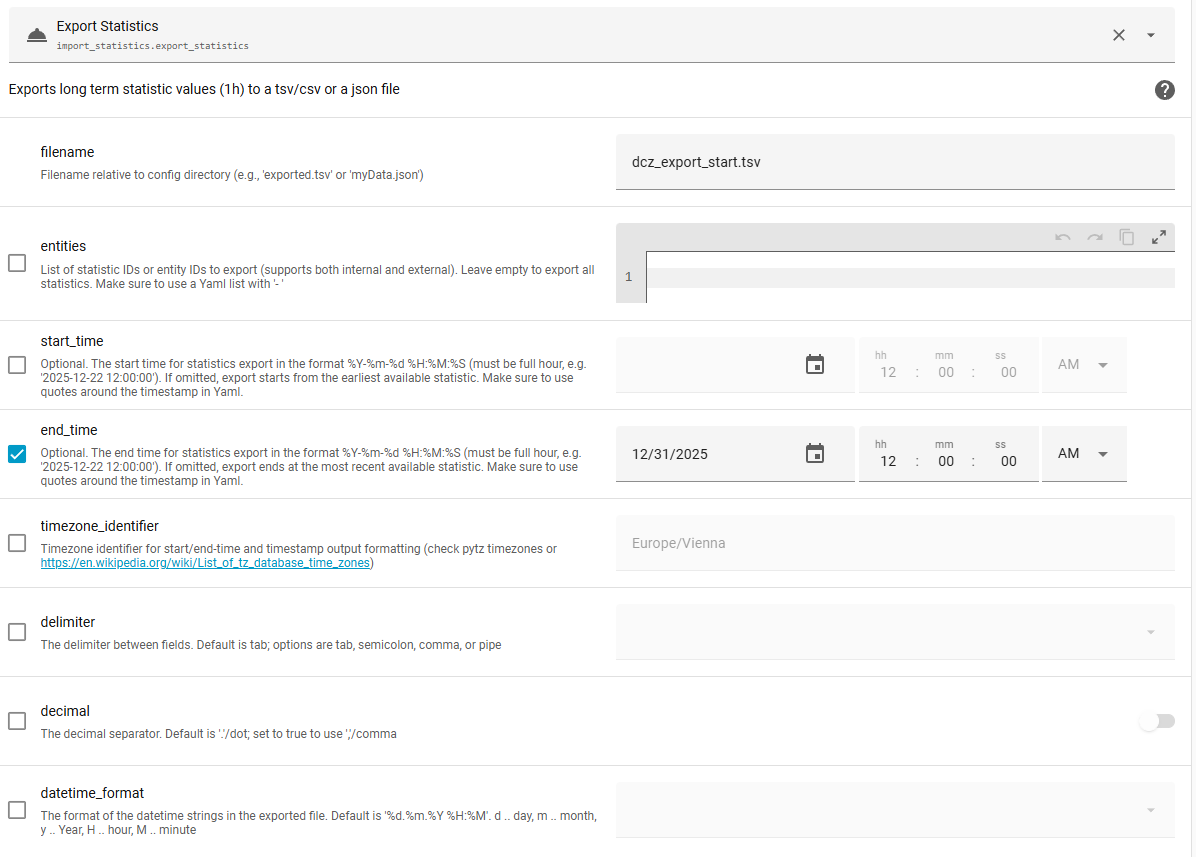
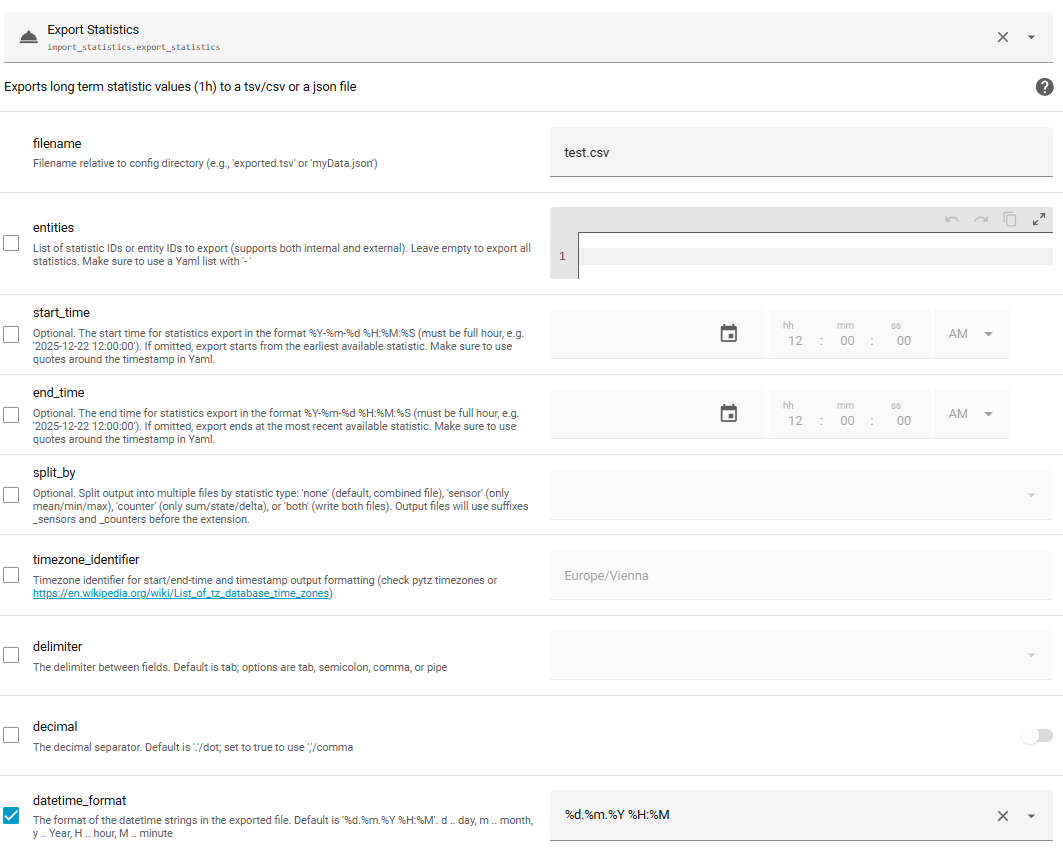
Add export performance notes and update architecture documentation
- Document export performance characteristics in README (45s for 450k records on RPi)
- Update service_export_ui.png screenshot
- Enhance ARCHITECTURE.md with detailed export service documentation:
  - Add split_by functionality for separating sensors/counters
  - Document auto-detection of time ranges from database
  - Add export_database_access.py module details
  - Include performance characteristics section
  - Update sequence

diff --git a/docs/DrCoolzic/ARCHITECTURE.md b/docs/DrCoolzic/ARCHITECTURE.md
@@ -108,22 +108,26 @@ hass.services.register(DOMAIN, "import_from_file", handle_import_from_file)
 **Role**: Main export service orchestration
 
 **Key Functions:**
-- [`handle_export_statistics_impl(hass, call)`](custom_components/import_statistics/export_service.py:52): Export service entry point
-- [`get_statistics_from_recorder()`](custom_components/import_statistics/export_service.py:27): Database querying
+- [`handle_export_statistics_impl(hass, call)`](custom_components/import_statistics/export_service.py:173): Export service entry point
+- [`get_statistics_from_recorder()`](custom_components/import_statistics/export_service.py:36): Database querying with optional parameters
 
 **Architecture Pattern:**
 1. **Parameter Validation**: Extract and validate service parameters
 2. **Entity Resolution**: If entities list is empty/None, fetch all statistics from database using `list_statistic_ids()`
-3. **Database Query**: Fetch statistics using recorder API
-4. **Data Formatting**: Use helper for formatting and file writing
-5. **File Output**: Write to config directory with security validation
+3. **Time Range Resolution**: Auto-detect start/end times if not provided using database metadata
+4. **Database Query**: Fetch statistics using recorder API
+5. **Split Processing**: Optional separation of sensors vs counters into different files
+6. **Data Formatting**: Use helper for formatting and file writing
+7. **File Output**: Write to config directory with security validation
 
 **Key Features:**
 - **Optional Entities Parameter**: When entities field is omitted or empty, exports all statistics in the database
-- **Flexible Export**: Supports both targeted exports (specific entities) and full database exports
+- **Flexible Time Range**: Optional start_time/end_time with auto-detection from database
+- **File Splitting**: New `split_by` option to separate sensors and counters into different files
+- **Performance Optimized**: Efficient database queries with proper async handling
 
 **Connection Points:**
-- **Calls**: `export_service_helper.py`
+- **Calls**: `export_service_helper.py`, `export_database_access.py`
 - **Uses**: `helpers.py` for validation
 - **Database**: Home Assistant recorder API (`statistics_during_period`, `get_metadata`, `list_statistic_ids`)
 
@@ -178,15 +182,24 @@ hass.services.register(DOMAIN, "import_from_file", handle_import_from_file)
 **Role**: Export data formatting and file operations
 
 **Key Functions:**
-- [`prepare_export_data()`](custom_components/import_statistics/export_service_helper.py:42): Data formatting for export
-- [`prepare_export_json()`](custom_components/import_statistics/export_service_helper.py:378): JSON-specific formatting
-- [`write_export_file()`](custom_components/export_statistics_helper.py:14): File writing operations
+- [`prepare_export_data()`](custom_components/import_statistics/export_service_helper.py:69): Data formatting for export
+- [`prepare_export_json()`](custom_components/import_statistics/export_service_helper.py:179): JSON-specific formatting
+- [`write_export_file()`](custom_components/import_statistics/export_service_helper.py:14): File writing operations
+- [`split_statistics_by_type()`](custom_components/import_statistics/export_service_helper.py:42): Separate sensors from counters
 
 **Formatting Pipeline:**
 1. **Data Conversion**: Transform database results to export format
-2. **Timezone Handling**: Convert timestamps to target timezone
-3. **Decimal Formatting**: Support comma/dot decimal separators
-4. **File Writing**: CSV/TSV/JSON output with specified delimiters
+2. **Type Detection**: Identify sensor vs counter statistics
+3. **Timezone Handling**: Convert timestamps to target timezone
+4. **Decimal Formatting**: Support comma/dot decimal separators
+5. **Delta Calculation**: Compute delta values for counter statistics
+6. **File Writing**: CSV/TSV/JSON output with specified delimiters
+
+**Key Features:**
+- **Mixed Type Support**: Handle sensors and counters in same export with sparse columns
+- **Split Processing**: Separate statistics by type for different files
+- **Delta Calculation**: Automatic delta computation for counter statistics
+- **Format Flexibility**: Support multiple output formats and delimiters
 
 **Connection Points:**
 - **Calls**: `helpers.py` for formatting utilities
@@ -385,9 +398,10 @@ graph TB
 
     subgraph "Data Processing"
         import_helper[import_service_helper.py<br/>Data Loading & Parsing]
-        export_helper[export_service_helper.py<br/>Data Formatting]
+        export_helper[export_service_helper.py<br/>Data Formatting & Splitting]
         delta_helper[import_service_delta_helper.py<br/>Delta Conversion]
         delta_db[delta_database_access.py<br/>DB Reference Queries]
+        export_db[export_database_access.py<br/>Time Range Queries]
     end
 
     subgraph "Core Utilities"
@@ -413,6 +427,7 @@ graph TB
     export_svc --> export_helper
     export_svc --> helpers
     export_svc --> ha_core
+    export_svc --> export_db
 
     import_helper --> helpers
     export_helper --> helpers
@@ -457,6 +472,13 @@ classDiagram
         +prepare_export_json()
         +write_export_file()
         +write_export_json()
+        +split_statistics_by_type()
+    }
+
+    class ExportDatabaseAccess {
+        +get_global_statistics_time_range()
+        -_get_min_max_start_ts()
+        -_get_min_max_start_ts_short_term()
     }
 
     class DeltaDatabaseAccess {
@@ -499,6 +521,7 @@ classDiagram
     ImportService --> Helpers
 
     ExportService --> ExportServiceHelper
+    ExportService --> ExportDatabaseAccess
     ExportService --> Helpers
 
     ImportServiceHelper --> Helpers
@@ -618,7 +641,19 @@ sequenceDiagram
 
 ### Export Statistics Service
 
-#### Export Specific Entities
+#### Export All Statistics with Auto-Detected Range
+```yaml
+action: import_statistics.export_statistics
+data:
+  filename: all_statistics.tsv
+  # All parameters optional - exports everything
+  # entities: omitted (exports all)
+  # start_time: omitted (auto-detect earliest)
+  # end_time: omitted (auto-detect latest)
+  split_by: both  # Separate sensors and counters
+```
+
+#### Export Specific Entities with Time Range
 ```yaml
 action: import_statistics.export_statistics
 data:
@@ -634,21 +669,28 @@ data:
   decimal: false
 ```
 
-#### Export All Statistics (New Feature)
+#### Export All Statistics (Enhanced)
 ```yaml
 action: import_statistics.export_statistics
 data:
   filename: all_statistics.tsv
   # entities field omitted - exports all statistics in database
-  start_time: "2025-12-22 12:00:00"
-  end_time: "2025-12-25 12:00:00"
+  # start_time/end_time optional - auto-detect from database
+  split_by: both  # Optional: separate sensors/counters
   timezone_identifier: Europe/Vienna
 ```
 
-**Note**: When the `entities` field is omitted or empty, the service automatically queries the recorder database using `list_statistic_ids()` to fetch all available statistics and exports them. This is useful for:
-- Full database backups
-- Discovering what statistics are available
-- Migrating all data to another system
+**Enhanced Features:**
+- **Auto-Discovery**: Automatically finds all statistic IDs in the database
+- **Flexible Time Range**: Optional start_time/end_time with database auto-detection
+- **File Splitting**: New `split_by` option (`none|sensor|counter|both`)
+- **Performance**: Optimized for large datasets (450k+ records in 30-60 seconds)
+
+**Use Cases:**
+- Full database backups and migrations
+- Discovering available statistics in the system
+- Splitting large exports by type for re-importing
+- Automated backup systems with flexible scheduling
 
 ---
 
@@ -656,9 +698,15 @@ data:
 
 ### Home Assistant APIs Used
 - **Recorder Statistics**: `statistics_during_period`, `async_import_statistics`, `get_metadata`, `list_statistic_ids`
-- **Database Access**: Direct recorder database access for delta references
+- **Database Access**: Direct recorder database access for delta references and time range queries
 - **Entity Validation**: `valid_entity_id`, `valid_statistic_id`
 - **Error Handling**: `HomeAssistantError` exception hierarchy
+
+### Performance Characteristics
+- **Large Dataset Handling**: Exports of 450,000+ statistics complete in 30-60 seconds on Raspberry Pi hardware
+- **Memory Efficiency**: Streaming data processing prevents memory exhaustion
+- **Database Optimization**: Single queries for metadata and statistics minimize database load
+- **Async Processing**: Non-blocking I/O operations maintain Home Assistant responsiveness
 
 ### File System Access
 - **Import**: Read from config directory (user-provided files)

diff --git a/README.md b/README.md
@@ -110,6 +110,7 @@ data:
 - **Overwrites existing data**: Importing the same timestamps replaces old values
 - **Gaps are preserved**: Missing hours will show as gaps in graphs
 - **Synchronous operation**: The action completes when all data is saved into the database. This can take a longer time for large input data
+- **Export performance**: Exporting large datasets (e.g., 450,000 statistics) may take ~45 seconds on Raspberry Pi hardware. The operation is memory-efficient and handles datasets of this size well.
 - **Validation errors**: Shown directly in the UI; check logs if import fails silently
 
 > If importing does not work and you do not get an error directly in the GUI, but there is an error in the Home Assistant logs, then this is a bug. This happens if the integration misses some checks, which lead to import errors later. Please create an issue.
@@ -193,6 +194,8 @@ Export your statistics to a file e.g. for backup, analysis, preparing a counter 
 > **Note:** If you omit `start_time`/`end_time`, the action will auto-detect the time range from the recorder.
 > This requires long-term (hourly) statistics to exist. On new Home Assistant instances you may only have short-term statistics at first;
 > in that case, wait until long-term statistics are generated, or provide explicit `start_time` and `end_time`.
+>
+> **Performance note**: Exporting all statistics from large databases (450k+ records) may take 30-60 seconds depending on hardware.
 
 #### Example using the UI
 

diff --git a/docs/DrCoolzic/export_options_modification.md b/docs/DrCoolzic/export_options_modification.md
@@ -126,7 +126,7 @@ Add an option to write sensor-like statistics and counter-like statistics into s
 
 Exporting statistics (especially “all statistics”) can generate very large files. A limit helps reduce runtime, memory use, and file size.
 
-#### Specification for export limit
+<!-- #### Specification for export limit
 
 Add an option to cap the number of statistic IDs included in one export operation.
 
@@ -148,7 +148,7 @@ Add an option to cap the number of statistic IDs included in one export operatio
 #### Status for export limit
 
 - [ ] Implemented
-- [ ] Tested
+- [ ] Tested -->
 
 ## Examples
 
